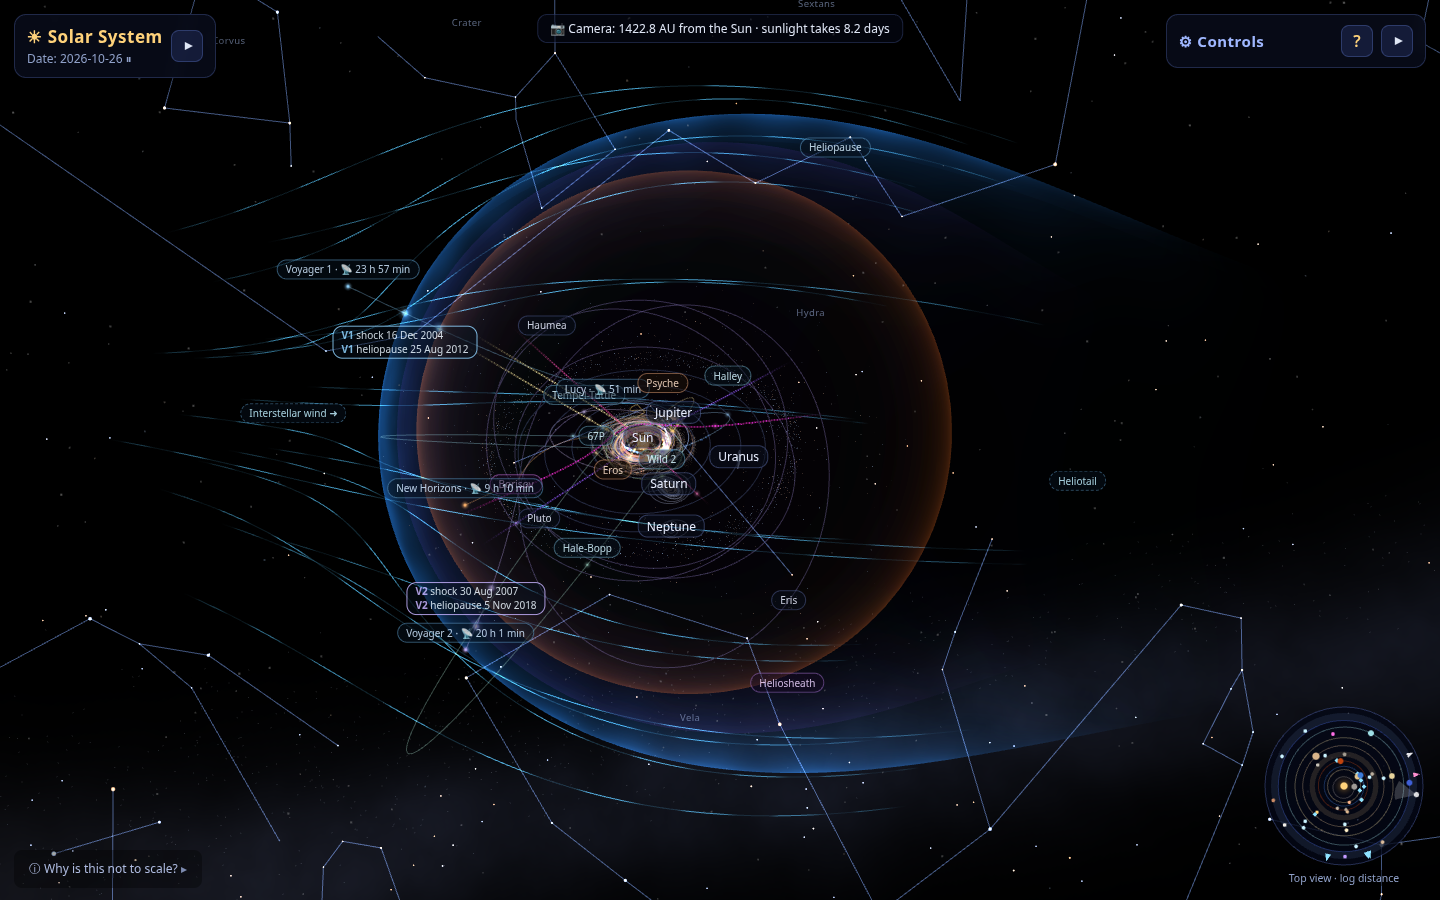
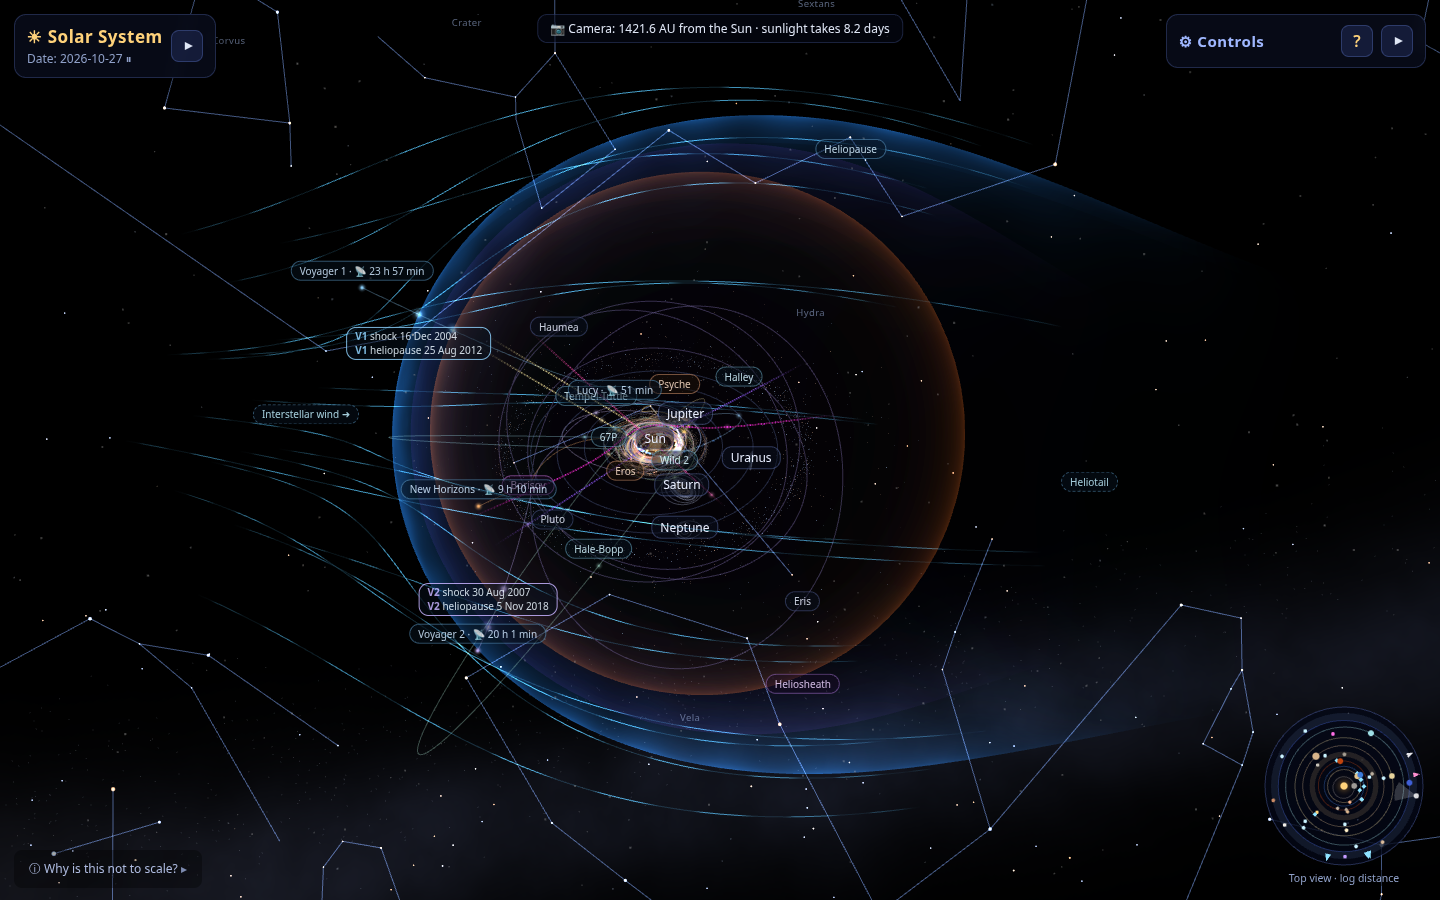
Changelog 2026-10-27, refreshed screenshot-heliosphere.png and screenshot.png

diff --git a/CHANGELOG.md b/CHANGELOG.md
@@ -1,5 +1,25 @@
 # Changelog
 
+## 2026-10-27: The heliosphere ships, and the Voyagers now cross on the real dates (Space Model Coder)
+
+### Shipped
+- **The heliosphere is live.** Yesterday's run built it (see the 2026-10-26 entry below) but stopped before pushing. Today it was put on top of the latest main (after EarthBot's cloud-shadow change, no conflicts) as one clean commit, re-tested and pushed.
+
+### Changed
+- **The Voyagers now reach the heliosphere's boundaries on the real dates.** Before, `spacecraft/` coasted each Voyager in one straight line at its average speed from its last flyby to its measured mid-2026 position, so it reached the boundaries 2–8 months late (Voyager 1 hit 94 AU in Aug 2005 instead of Dec 2004). Now the coast is split at measured checkpoints on the same line, so the path looks exactly the same but the timing is right:
+  - Voyager 1: 94.01 AU on 16 Dec 2004 (termination shock) and 121.6 AU on 25 Aug 2012 (heliopause).
+  - Voyager 2: 84.0 AU on 30 Aug 2007 (termination shock) and 119.0 AU on 5 Nov 2018 (heliopause).
+  - Checked in the browser: on each of those dates the probe sits within 0.02 AU of its crossing marker. The mid-2026 positions (171.0 and 143.2 AU) and the speed after that are unchanged, and New Horizons is not affected.
+- `heliosphere/`: each crossing marker is now placed on the piece of the coast that actually reaches that distance (same spot as before, since all pieces lie on one line), so its date matches too. The shells are unchanged (termination shock R0 = 85.6 AU, β = 0.143; heliopause R0 = 112.2 AU, β = 0.081).
+- `spacecraft/data.js`: a `checkpoints` list ([date, AU]) for each Voyager. `spacecraft/index.js`: 12 lines in `buildTrack()` that add those points to the coast.
+- The 2026-10-26 note about the Voyagers arriving late no longer applies.
+
+### Tested
+- Desktop (1440×900) and iPad Pro 11 emulation (portrait and landscape, touch on): the page loads with no console errors or uncaught exceptions. Layers → Heliosphere turns it off and on and is remembered. Typing `heliopause` in search flies out to the whole bubble and opens the Heliopause card. The default view is unchanged (the heliosphere stays hidden near the planets). Clicking or tapping the Heliopause label opens its card.
+
+### Screenshots
+- `screenshot-heliosphere.png` and `screenshot.png` re-taken today. `screenshot-ipad.png` is unchanged, since the default iPad view didn't change.
+
 ## 2026-10-26: The heliosphere and Voyager's boundary crossings (Space Model Coder)
 
 ### Added
